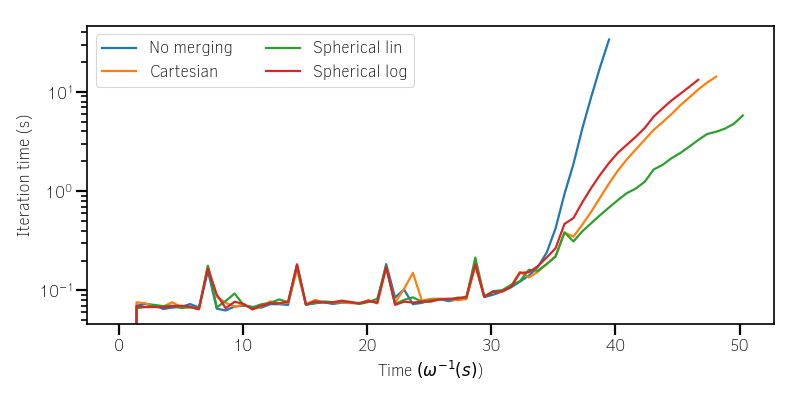
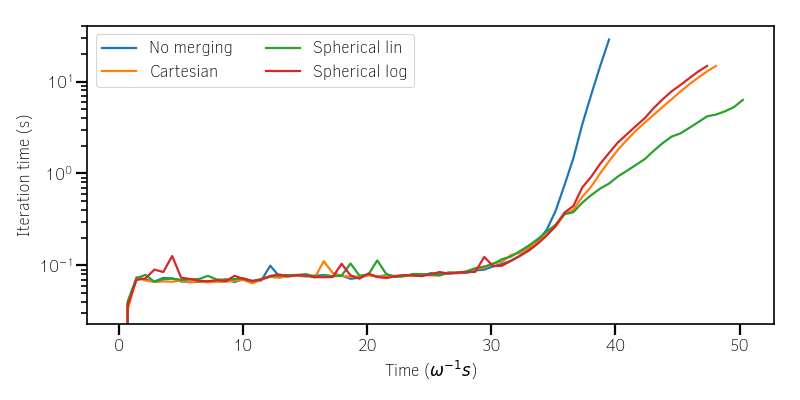
Particle merging: Update of the doc

diff --git a/doc/Sphinx/particle_merging.rst b/doc/Sphinx/particle_merging.rst
@@ -1,16 +1,16 @@
 Particle Merging
 ================================================================================
 
-:red:`BETA: be careful when using this module and read carrefully the documentation.`
+:red:`BETA: be careful when using this module and read carefully  the documentation.`
 
-The ability to merge macro-marticles can speed-up the code efficiency
-and reduce the memory footprint in some specific simulation senarii:
+The ability to merge macro-particles can speed-up the code efficiency
+and reduce the memory footprint in some specific simulation senarios:
 
 * When macro-particles accumulate in a fraction of the simulation domain
-  hence strongly worsening the load imbalance (ex: Weibel collison shocks,
+  hence strongly worsening the load imbalance (ex: Weibel collision shocks,
   laser wakefield electron acceleration).
 * When macro-particles are generated in a large quantity due to some
-  additonal physical mechanisms (ionization, macro-photon emission, QED pair production...)
+  additional physical mechanisms (ionization, macro-photon emission, QED pair production...)
 * When macro-particles travel in large quantities outside interesting physical regions.
 
 Available implemented methods:
@@ -29,11 +29,13 @@ The merging method of M. Vranic
 1. Understand the method
 ^^^^^^^^^^^^^^^^^^^^^^^^^^^^^^^^^^^^^^^^^^^^^^^^^^^^^^^^^^^^^^^^^^^^^^^^^^^^^^^^
 
-The method of M. Vranic basically consists on 3 main steps and is schematically described (in 2D) in Fig. :numref:`fig_vranic_particle_merging`:
+The method of M. Vranic consists of 3 main steps and is schematically described (in 2D) in Fig. :numref:`fig_vranic_particle_merging`:
 
-1. To Decompose macro-particles in position space into groups so that they share close location. In :program:`Smilei`, macro-particles are sorted by field cells. In the article of M. Vranic *et al.*, the decomposition can be larger than just a cell.
+1. To Decompose macro-particles into groups according to their location so that they share close positions.
+  In :program:`Smilei`, macro-particles are sorted by field cells.
+  In the article of M. Vranic *et al.*, the decomposition can be larger than just a cell.
 
-2. Then, to subdivide the macro-particles into sub-groups in the momentum space so that they share close kinteic properties.
+2. Then, to subdivide the macro-particles into sub-groups in the momentum space so that they share close kinetic properties.
 
 3. To merge macro-particles located in the same groups in 2 new macro-particles to respect the charge, energy and momentum conserving laws.
 
@@ -42,15 +44,15 @@ The method of M. Vranic basically consists on 3 main steps and is schematically 
 .. figure:: _static/vranic_particle_merging.png
   :width: 100%
 
-  Basic description of the Vranic merging method in 2D geometry. In 3D, the idea is strictly the same.
+  Basic description of M. Vranic merging method in 2D geometry. In 3D, the idea is strictly the same.
 
-This method has several advantages. It is relatively easy to understand and to implement.
-It has a relatively low computational costs and is efficient without
-impacting significantly the physical resuls.
+This method has several advantages.
+It is relatively easy to understand and to implement.
+It has a relatively low computational costs and is efficient without impacting significantly the physical results.
 
 .. warning::
 
-  This suppose that the parameters are adequatly tuned.
+  This suppose that the parameters are adequately tuned.
   Otherwise, the macro-particle merging can affect the final simulation results.
 
 1.1 Momentum cell decomposition
@@ -62,7 +64,7 @@ The number of cells in the direction :math:`\alpha` for the discretization is :m
 The discretization step in the direction :math:`\alpha` is called :math:`\Delta_{\alpha}`.
 
 In a position merge cell, step 2 starts by the computation of the minimum :math:`p_{\alpha,min}` and maximum :math:`p_{\alpha,max}` momentum boundaries (also given in :numref:`fig_vranic_particle_merging`).
-The boundaries define the momentum space that is then discretized.
+The momentum boundaries define the limits of the momentum space that we use and discretize.
 The momentum space is divided into momentum cells (of size :math:`\Delta_{\alpha}`) following the discretization (:math:`N_{\alpha}`) given by the user.
 
 In :program:`Smilei`, we use both a spherical discretization geometry for the momentum
@@ -484,7 +486,7 @@ We decide to have an agressive merging process performed at every timesteps with
 The merging is applied on all species.
 Prior to 3D, we have performed the same simulation case in lower dimensions 1D and 2D.
 The merging process can be performed with a finer momentum-space dicretization and every longer period in these dimensions (1D and 2D) because the number of macro-particles per mometum cells is higher.
-In 3D, the number of particles per momentum cells can be too small to have a frequent merging with a fine momentum-space dicretization.
+In 3D, the number of particles per momentum cells can be too small to have a frequent merging with a thin momentum-space dicretization.
 The cases are run during a maximum of 1000 seconds.
 
 This case is simulated identically with different merging configuration:
@@ -514,8 +516,13 @@ As we will see, the merging processes modify the momentum distribution and influ
 
 The electron, positron and photon energy spectrum at time :math:`t = 39 \omega^{-1}`
 (nearly when the no merging case saturates) is shown in :numref:`fig_qed_cascade_photon_gamma_spectrum`.
-It reaveals that for this configuration, the Cartesian and the linear spherical discretization strongly impact the
-mass particle energy distribution.
+It reaveals that for this configuration, all merging methods significantly impact the energy distributions.
+For particles, the spherical methods tend to overestimate the energy distribution with a large bump
+between 50 and 300 :math:`m_ec^2`.
+The Cartesian discretization overestimates it before 150 :math:`m_ec^2` and then goes below the no-merging curve.
+This phenomenon is less important with a thinner discretization but at the cost of less particle merging events.
+For photons, we observe oscillations with all methods due to the accumulation effect.
+The logarithmic merging curve seems to oscilate around the no-merging one.
 
 .. _fig_qed_cascade_photon_gamma_spectrum:
 
@@ -526,13 +533,20 @@ mass particle energy distribution.
   for the different merging configuration: no merging, mergign with the logarithmic and linear spherical
   discretization and the Cartesian discretization.
 
+:numref:`fig_qed_cascade_photon_pxpy_spectrum` shows the :math:`k_x-k_y` momentum distribution of the photons.
+It clearly shows that with the level of discretization we have for these simulation, none of the merging process
+can perfectly reproduce the distribution without merging.
+
 .. _fig_qed_cascade_photon_pxpy_spectrum:
 
 .. figure:: _static/figures/QED_cascade_photon_px_py_distribution.png
   :width: 100%
 
-  :math:`p_x-p_y` photon momentum distribution at simulation time :math:`t = 39.5 \omega^{-1}`
-  for the different merging configuration: no merging, mergign with the logarithmic and linear spherical discretization and the cartesian discretization.
+  :math:`k_x-k_y` photon momentum distribution at simulation time :math:`t = 39.5 \omega^{-1}`
+  for the different merging configuration: no merging, mergign with the logarithmic and linear
+  spherical discretization and the cartesian discretization.
+
+:numref:`fig_qed_cascade_electron_pxpy_spectrum` shows the :math:`p_x-p_y` momentum distribution of the electrons.
 
 .. _fig_qed_cascade_electron_pxpy_spectrum:
 
@@ -542,12 +556,30 @@ mass particle energy distribution.
   :math:`p_x-p_y` electron momentum distribution at simulation time :math:`t = 39.5 \omega^{-1}`
   for the different merging configuration: no merging, mergign with the logarithmic and linear spherical discretization and the cartesian discretization.
 
+:numref:`fig_qed_cascade_iteration_time` shows the CPU time necessary to compute a numerical timestep all
+along the simulations.
+This enables to compare the merging methods in term of performance.
+The linear spherical discretization is faster than the others.
+It can be explaine easily: the solid angle correction diminishes the number of cells to treat in the momentum space.
+The logarithmic spherical discretization has the same advantage but the computation in the log-space adds a
+computational time overhead.
+The consequence is that this method has at the end almost the same computational cost than the Cartesian method described in [Vranic2005]_.
+
+
 .. _fig_qed_cascade_iteration_time:
 
 .. figure:: _static/figures/QED_cascade_iteration_time.png
   :width: 100%
 
-  Evolution of the average computation time per iteration for each merging method: no merging, mergign with the logarithmic and linear spherical discretization and the cartesian discretization.
+  Evolution of the average computation time per iteration for
+  each merging method: no merging, mergign with the logarithmic and linear spherical discretization and the cartesian discretization.
+
+The following video shows what happens during this simulation benchmark.
+It has been obtained using the logarithmic spherical discretization.
+Specifically, it shows the time evolution of the electron, the positron and the photon density in the plane :math:`x-y`.
+The z-axis is integrated.
+The exponential growth of photons and mass particles can be seen.
+It first happens in the plane y-z near the center of the domain and then expand longitudinaly.
 
 .. _video_qed_cascade:
 
